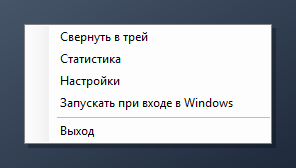
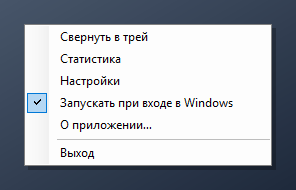
Добавлен пункт «О приложении» в меню трея и история версий, версия 1.1

Changed region(s): [[0.0608, 0.119, 0.9426, 0.8929]]

diff --git a/src/AboutForm.cs b/src/AboutForm.cs
@@ -1,0 +1,97 @@
+using System;
+using System.Diagnostics;
+using System.Drawing;
+using System.Reflection;
+using System.Windows.Forms;
+
+namespace DevMonitor
+{
+    internal sealed class AboutForm : Form
+    {
+        private const string GitHubUrl = "https://github.com/aokazantsev/DevMonitor";
+        private const string SiteUrl = "https://aokazantsev.ru/pets/devmonitor/";
+        private const string ChangelogUrl = GitHubUrl + "/blob/main/CHANGELOG.md";
+        private const string ReleasesUrl = GitHubUrl + "/releases/latest";
+
+        private static AboutForm openForm;
+
+        public static void ShowSingle()
+        {
+            if (openForm != null)
+            {
+                openForm.Activate();
+                return;
+            }
+            openForm = new AboutForm();
+            openForm.FormClosed += (sender, e) => openForm = null;
+            openForm.Show();
+        }
+
+        private AboutForm()
+        {
+            Assembly assembly = Assembly.GetExecutingAssembly();
+            string product = Attribute<AssemblyProductAttribute>(assembly, a => a.Product, "DevMonitor");
+            string version = Attribute<AssemblyInformationalVersionAttribute>(assembly, a => a.InformationalVersion, assembly.GetName().Version.ToString());
+            string description = Attribute<AssemblyDescriptionAttribute>(assembly, a => a.Description, "");
+            string copyright = Attribute<AssemblyCopyrightAttribute>(assembly, a => a.Copyright, "");
+
+            Text = "О приложении " + product;
+            FormBorderStyle = FormBorderStyle.FixedDialog;
+            MaximizeBox = false;
+            MinimizeBox = false;
+            StartPosition = FormStartPosition.CenterScreen;
+            AutoScaleMode = AutoScaleMode.Dpi;
+            Font = SystemFonts.MessageBoxFont;
+            AutoSize = true;
+            AutoSizeMode = AutoSizeMode.GrowAndShrink;
+            Icon appIcon = Icon.ExtractAssociatedIcon(Application.ExecutablePath);
+            Icon = appIcon;
+
+            var layout = new TableLayoutPanel { AutoSize = true, ColumnCount = 2, Padding = new Padding(16), Dock = DockStyle.Fill };
+            layout.ColumnStyles.Add(new ColumnStyle(SizeType.AutoSize));
+            layout.ColumnStyles.Add(new ColumnStyle(SizeType.AutoSize));
+            Controls.Add(layout);
+
+            var picture = new PictureBox
+            {
+                Image = new Icon(appIcon, 48, 48).ToBitmap(),
+                SizeMode = PictureBoxSizeMode.Zoom,
+                Size = new Size(48, 48),
+                Margin = new Padding(0, 0, 16, 0)
+            };
+            layout.Controls.Add(picture, 0, 0);
+            layout.SetRowSpan(picture, 8);
+
+            var title = new Label { Text = product, AutoSize = true, Font = new Font(Font.FontFamily, Font.Size * 1.5f, FontStyle.Bold) };
+            layout.Controls.Add(title, 1, 0);
+            layout.Controls.Add(new Label { Text = "Версия " + version, AutoSize = true, Margin = new Padding(3, 2, 3, 8) }, 1, 1);
+            layout.Controls.Add(new Label { Text = description, AutoSize = true, MaximumSize = new Size(360, 0), Margin = new Padding(3, 0, 3, 12) }, 1, 2);
+            layout.Controls.Add(Link("Страница на сайте", SiteUrl), 1, 3);
+            layout.Controls.Add(Link("Исходники на GitHub", GitHubUrl), 1, 4);
+            layout.Controls.Add(Link("История версий", ChangelogUrl), 1, 5);
+            layout.Controls.Add(Link("Последняя версия", ReleasesUrl), 1, 6);
+            layout.Controls.Add(new Label { Text = copyright, AutoSize = true, ForeColor = SystemColors.GrayText, Margin = new Padding(3, 12, 3, 12) }, 1, 7);
+
+            var close = new Button { Text = "Закрыть", AutoSize = true, Anchor = AnchorStyles.Right, DialogResult = DialogResult.OK };
+            close.Click += (sender, e) => Close();
+            layout.Controls.Add(close, 1, 8);
+            AcceptButton = close;
+            CancelButton = close;
+        }
+
+        private static LinkLabel Link(string text, string url)
+        {
+            var link = new LinkLabel { Text = text, AutoSize = true, Margin = new Padding(3, 2, 3, 2) };
+            link.LinkClicked += (sender, e) => Process.Start(new ProcessStartInfo(url) { UseShellExecute = true });
+            return link;
+        }
+
+        private static string Attribute<T>(Assembly assembly, Func<T, string> read, string fallback) where T : Attribute
+        {
+            object[] found = assembly.GetCustomAttributes(typeof(T), false);
+            if (found.Length == 0) return fallback;
+            string value = read((T)found[0]);
+            return string.IsNullOrEmpty(value) ? fallback : value;
+        }
+    }
+}

diff --git a/installer/setup/AssemblyInfo.cs b/installer/setup/AssemblyInfo.cs
@@ -6,7 +6,7 @@ using System.Runtime.InteropServices;
 [assembly: AssemblyCompany("aokazantsev")]
 [assembly: AssemblyProduct("DevMonitor")]
 [assembly: AssemblyCopyright("Copyright (c) 2026 aokazantsev. MIT License")]
-[assembly: AssemblyVersion("1.0.0.0")]
-[assembly: AssemblyFileVersion("1.0.0.0")]
-[assembly: AssemblyInformationalVersion("1.0")]
+[assembly: AssemblyVersion("1.1.0.0")]
+[assembly: AssemblyFileVersion("1.1.0.0")]
+[assembly: AssemblyInformationalVersion("1.1")]
 [assembly: ComVisible(false)]

diff --git a/installer/uninstall/AssemblyInfo.cs b/installer/uninstall/AssemblyInfo.cs
@@ -6,7 +6,7 @@ using System.Runtime.InteropServices;
 [assembly: AssemblyCompany("aokazantsev")]
 [assembly: AssemblyProduct("DevMonitor")]
 [assembly: AssemblyCopyright("Copyright (c) 2026 aokazantsev. MIT License")]
-[assembly: AssemblyVersion("1.0.0.0")]
-[assembly: AssemblyFileVersion("1.0.0.0")]
-[assembly: AssemblyInformationalVersion("1.0")]
+[assembly: AssemblyVersion("1.1.0.0")]
+[assembly: AssemblyFileVersion("1.1.0.0")]
+[assembly: AssemblyInformationalVersion("1.1")]
 [assembly: ComVisible(false)]

diff --git a/src/AssemblyInfo.cs b/src/AssemblyInfo.cs
@@ -6,7 +6,7 @@ using System.Runtime.InteropServices;
 [assembly: AssemblyCompany("aokazantsev")]
 [assembly: AssemblyProduct("DevMonitor")]
 [assembly: AssemblyCopyright("Copyright (c) 2026 aokazantsev. MIT License")]
-[assembly: AssemblyVersion("1.0.0.0")]
-[assembly: AssemblyFileVersion("1.0.0.0")]
-[assembly: AssemblyInformationalVersion("1.0")]
+[assembly: AssemblyVersion("1.1.0.0")]
+[assembly: AssemblyFileVersion("1.1.0.0")]
+[assembly: AssemblyInformationalVersion("1.1")]
 [assembly: ComVisible(false)]

diff --git a/src/OverlayForm.cs b/src/OverlayForm.cs
@@ -292,6 +292,7 @@ namespace DevMonitor
             menu.Items.Add("Настройки", null, delegate { ShowSettings(); });
             startupItem.Click += delegate { ToggleStartup(); };
             menu.Items.Add(startupItem);
+            menu.Items.Add("О приложении…", null, delegate { AboutForm.ShowSingle(); });
             menu.Items.Add(new ToolStripSeparator());
             menu.Items.Add("Выход", null, delegate { Close(); });
             menu.Opening += delegate

diff --git a/installer/common/AppIdentity.cs b/installer/common/AppIdentity.cs
@@ -6,7 +6,7 @@ namespace DevMonitor.Setup
     internal static class AppIdentity
     {
         public const string Name = "DevMonitor";
-        public const string Version = "1.0";
+        public const string Version = "1.1";
         public const string ExecutableName = "DevMonitor.exe";
         public const string ProcessName = "DevMonitor";
         public const string UninstallerName = "Uninstall.exe";

diff --git a/README.md b/README.md
@@ -5,6 +5,8 @@
 без Alt+Tab. Плюс история по минутам и статистика за день и неделю — видно, сколько на самом деле
 съедают Gradle и Kotlin-демоны при заданном `-Xmx`.
 
+**Актуальная версия** — на странице [Releases](../../releases/latest), что изменилось — в [истории версий](CHANGELOG.md).
+
 ![Оверлей](installer/guide/overlay.png)
 
 | Сегодня | Неделя |
@@ -63,7 +65,7 @@ README, `CLAUDE.md`, исходники программы и установщи
 **Трей.** Пока DevMonitor запущен, в области уведомлений всегда висит значок-термометр.
 - Одиночный клик левой кнопкой — свернуть оверлей в трей или развернуть обратно.
 - Правая кнопка — меню: «Свернуть в трей» / «Развернуть», «Статистика», «Настройки»,
-  «Запускать при входе в Windows», «Выход».
+  «Запускать при входе в Windows», «О приложении…», «Выход».
   Меню есть только на значке; по самому оверлею правая кнопка ничего не делает.
 - Подсказка на значке — первая строка каждой группы (CPU, GPU, Studio) текущими значениями.
   Строка без значения (например, Studio, когда Android Studio закрыта) в подсказку не попадает.

diff --git a/CHANGELOG.md b/CHANGELOG.md
@@ -1,0 +1,21 @@
+# История версий DevMonitor
+
+Актуальная версия — в [Releases](../../releases/latest).
+
+## 1.1 — 06.10.2026
+
+- В меню трея появился пункт «О приложении»: версия, ссылки на страницу на сайте, исходники,
+  историю версий и последнюю версию.
+
+## 1.0 — 06.10.2026
+
+Первая публичная версия.
+
+- Оверлей загрузки и температуры CPU и GPU, ОЗУ, видеопамяти, памяти Android Studio, Gradle- и
+  Kotlin-демонов.
+- История по минутам и окно статистики за день и неделю.
+- Модель процессора и видеокарты определяется сама; пороги температуры — из справочника на 144
+  модели.
+- Установка в Program Files, история и настройки — в профиле пользователя; установщик переносит
+  их из прежней папки.
+- Сведения о версии и авторе в программе и установщике.

diff --git a/CLAUDE.md b/CLAUDE.md
@@ -24,6 +24,9 @@ Android Studio / Gradle / Kotlin, история по минутам, стати
 
 ## Проверка изменений
 
+- История и настройки живут в `%LOCALAPPDATA%\DevMonitor`, а не рядом с exe. Обвязка
+  `GuideShots` кормит `HistoryRecorder` синтетикой — запущенная как есть, она допишет её в настоящую
+  историю пользователя. Снимать отдельные окна отдельной обвязкой без `HistoryRecorder`.
 - Интерфейс проверять снимками: отдельная обвязка (`/main:` другой класс), своя папка с копией
   `hardware.csv` и синтетической историей (`installer\guide\source\fake_data.py`), `DrawToBitmap` →
   PNG → посмотреть. Реальные `data\`, `settings.txt`, `position.txt` пользователя не трогать.
